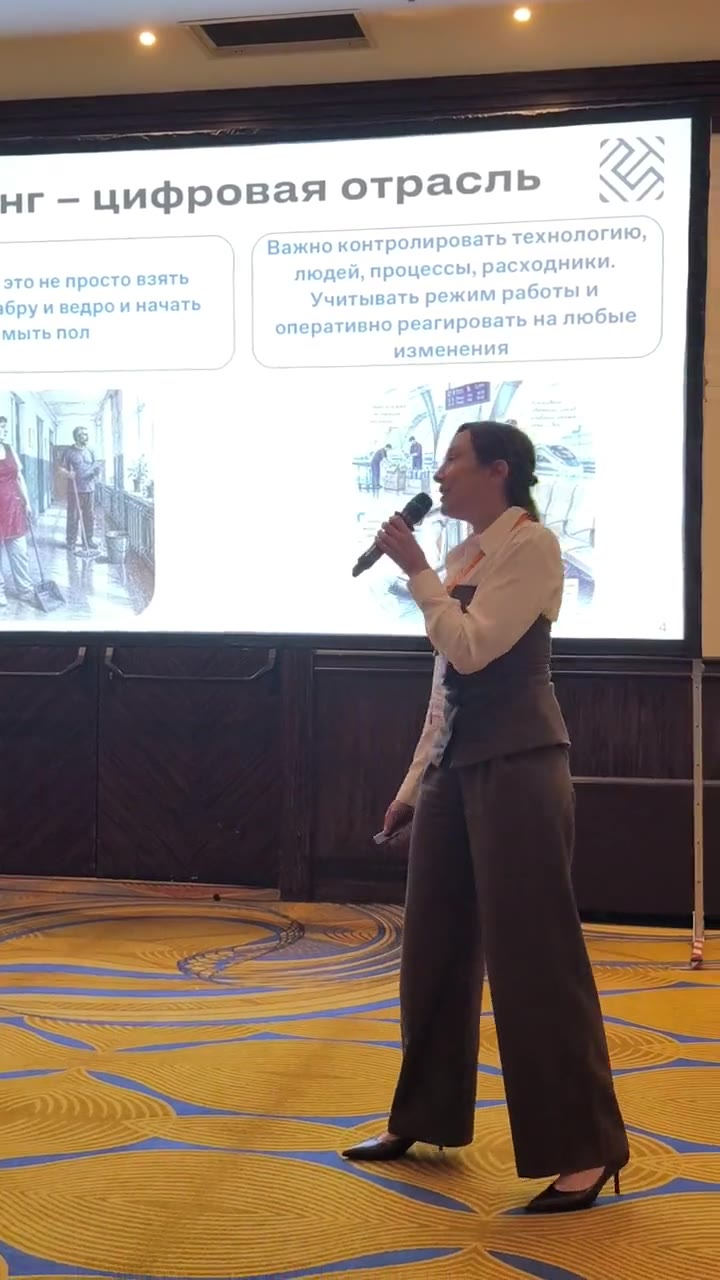
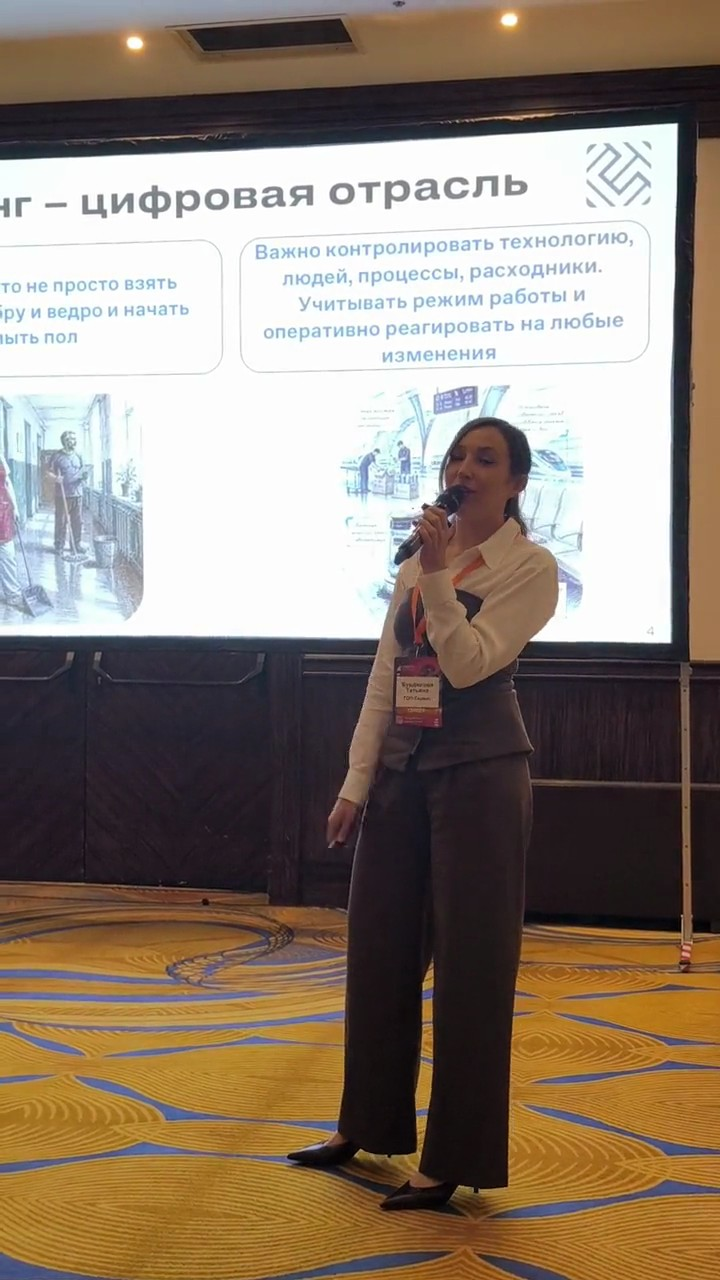
Первый экран по центру колонки со строкой «Спикер CleanExpo и CNews Forum»; новая обложка видео

diff --git a/index.html b/index.html
@@ -66,11 +66,12 @@
   .top .btn{padding:12px 22px;font-size:15px}
   @media (max-width:860px){.top nav{display:none}}
 
-  .hero{display:grid;grid-template-columns:minmax(0,1.12fr) minmax(0,.88fr);min-height:calc(100dvh - 72px);max-height:960px}
+  .hero{display:grid;grid-template-columns:minmax(0,1.12fr) minmax(0,.88fr);min-height:min(calc(100dvh - 72px), 820px)}
   .hero .l{padding:4vh 40px 40px max(20px, calc((100vw - 1280px)/2));display:flex;flex-direction:column}
-  .hero .l{justify-content:flex-end;padding-bottom:64px !important}
-  .hero h1{font-weight:800;font-size:clamp(40px,5.8vw,96px);line-height:.98;letter-spacing:-.04em;text-transform:uppercase;margin-top:auto}
+  .hero .l{justify-content:center}
+  .hero h1{font-weight:800;font-size:clamp(40px,5.8vw,96px);line-height:.98;letter-spacing:-.04em;text-transform:uppercase}
   .hero h1 span{color:var(--red);display:block}
+  .hero .role{font-weight:500;font-size:clamp(15px,1.2vw,18px);margin-bottom:26px;padding-left:16px;border-left:4px solid var(--red)}
   .hero .sub{font-size:clamp(19px,1.6vw,24px);line-height:1.4;max-width:36ch;margin-top:30px}
   .hero .sub b{font-weight:600;color:var(--ink);display:block}
   .hero .cta{display:flex;gap:28px;align-items:center;margin-top:34px;flex-wrap:wrap}
@@ -211,6 +212,7 @@
 <main>
 <section class="hero" style="padding:0" aria-label="Татьяна Бурдюгова">
   <div class="l">
+    <p class="role">Спикер CleanExpo и CNews Forum</p>
     <h1>Татьяна <span>Бурдюгова</span></h1>
     <p class="sub"><b>Говорю только о том, что внедряю сама:</b> ИИ и цифровизация в большом сервисном бизнесе.</p>
     <div class="cta"><a class="btn" href="#contact">Пригласить</a><a class="lnk" href="https://t.me/tatyana_and_coffee" target="_blank" rel="noopener">Telegram-канал</a></div>
